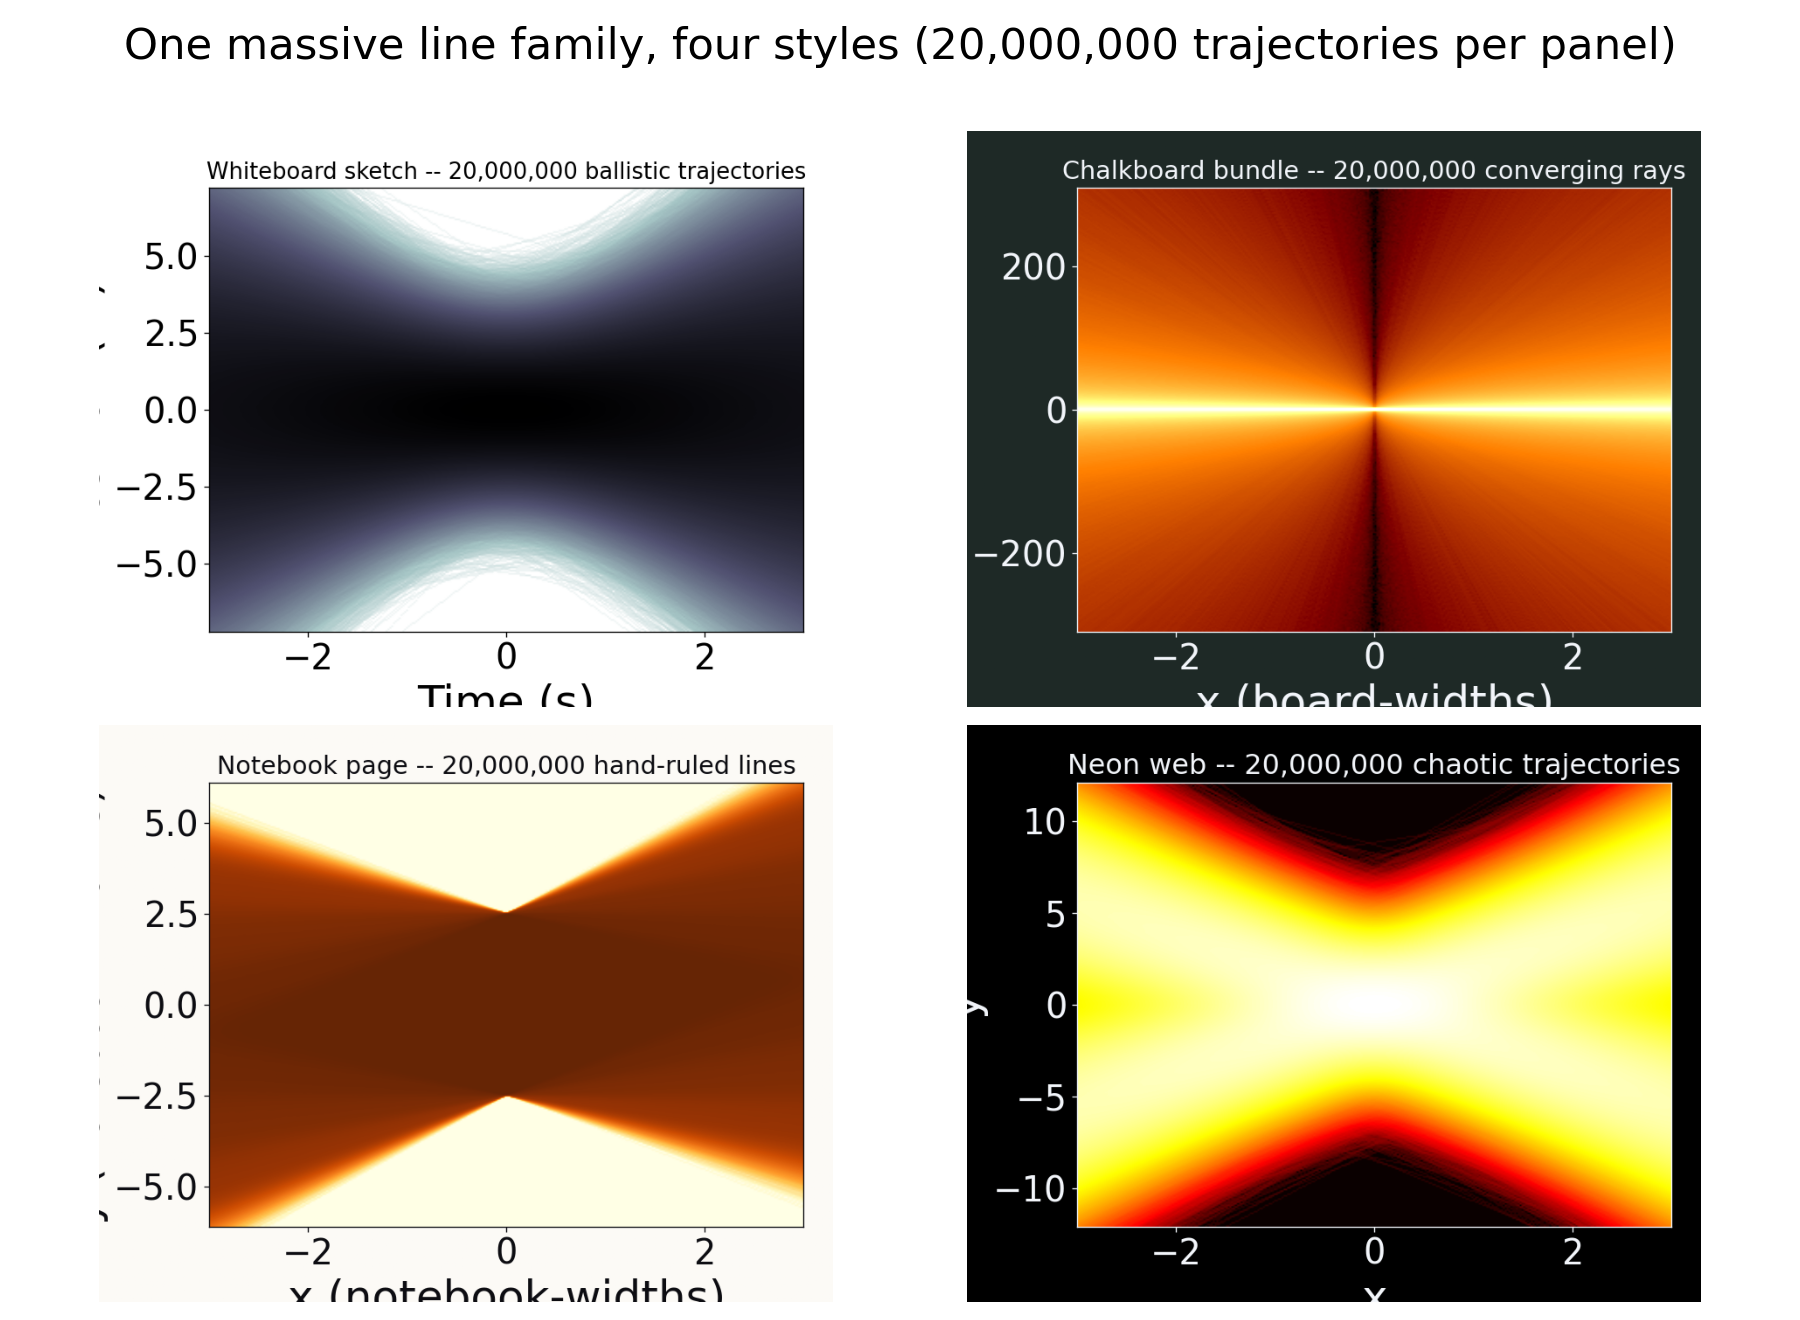
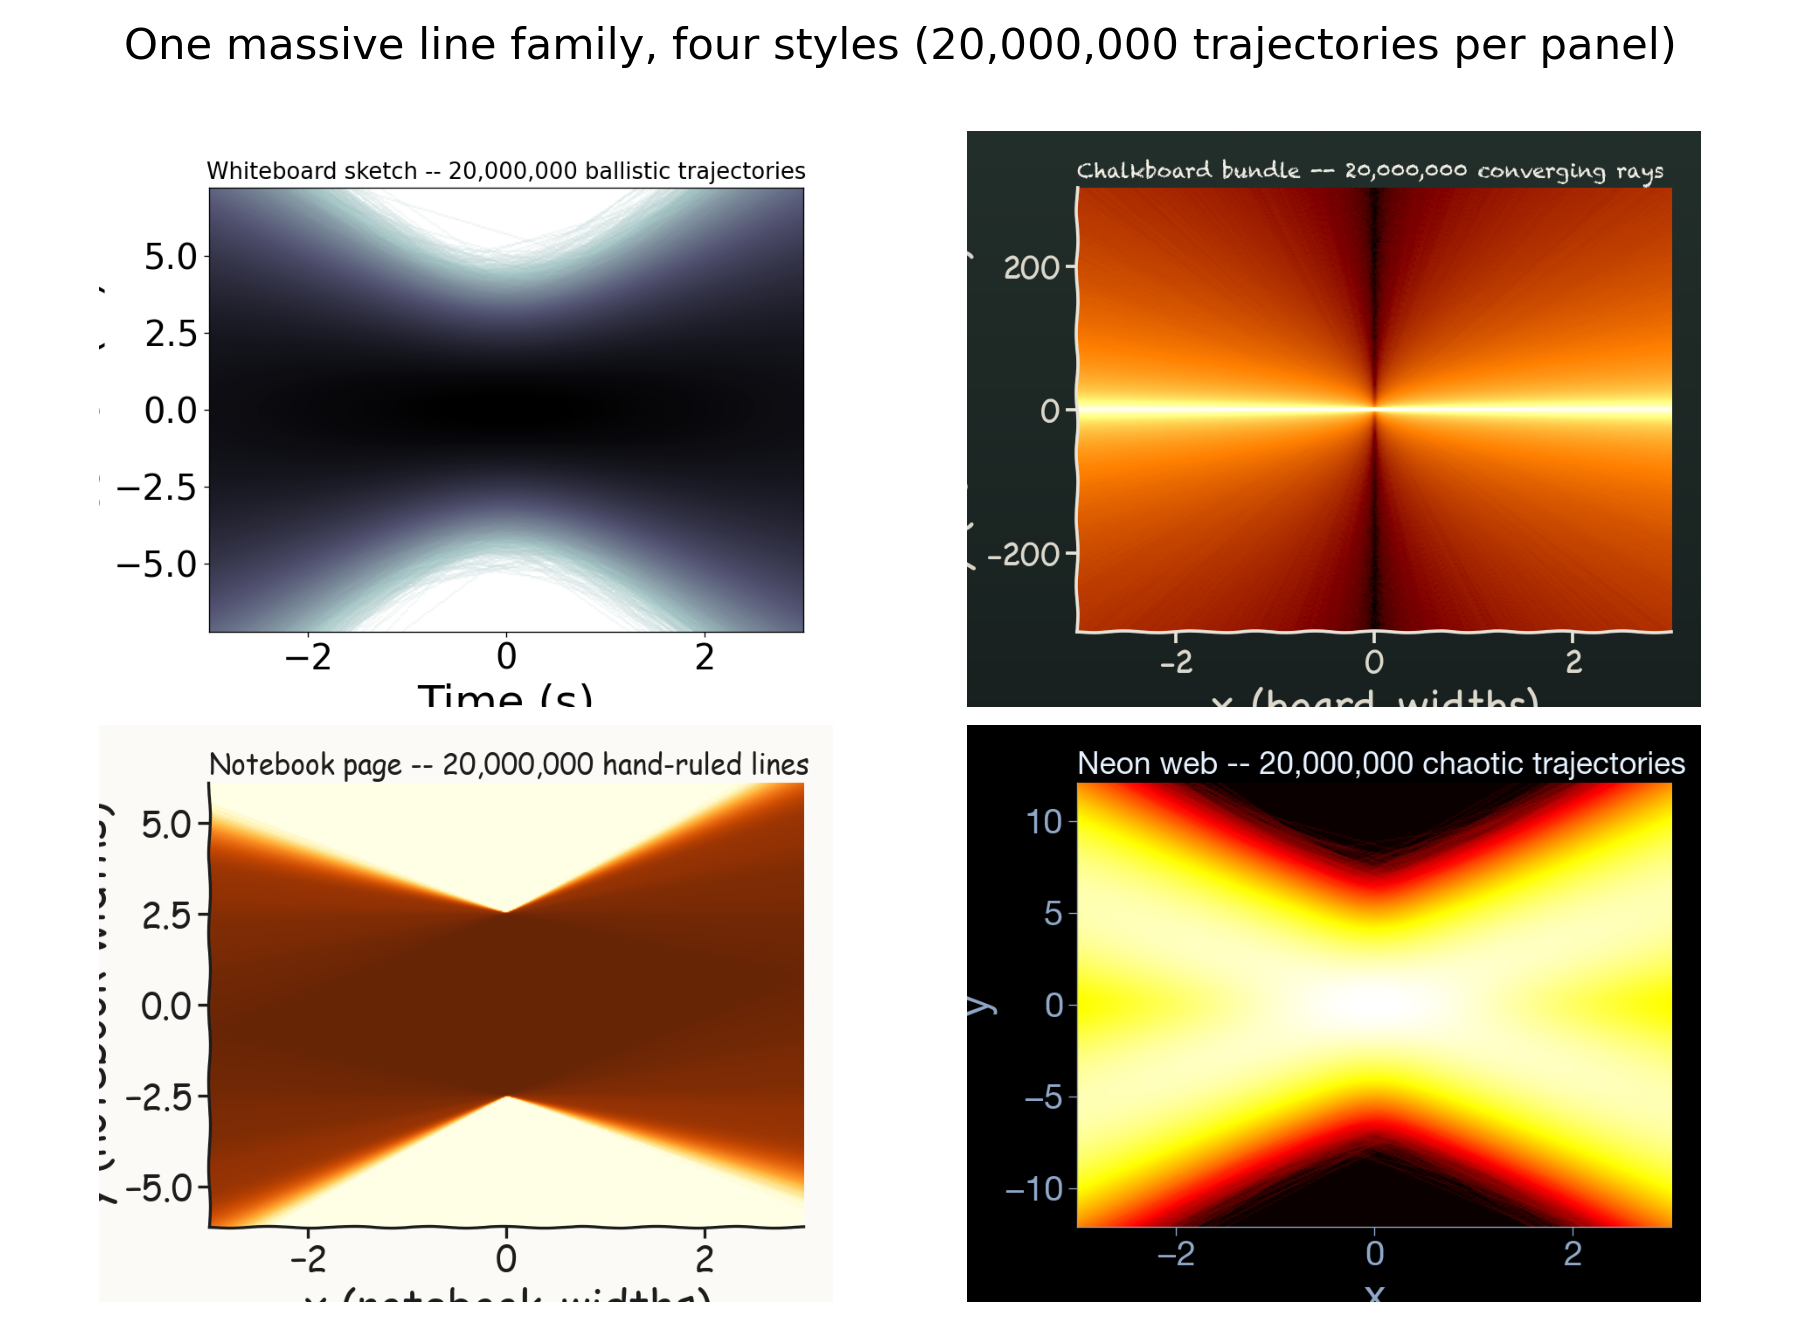
fix(export): tall titles make room, monospace looks fit small figures; describe_figure reports the style
A title in a face with tall ascenders lowers a lone axes' top edge (measured at the asked size,
so animations stay still) instead of poking out or shrinking; the editor, blueprint and terminal
looks use smaller numbers and axis titles. describe_figure says which look a figure wears.
Gallery 04 and 28 regenerated.

diff --git a/tests/test_style_looks.py b/tests/test_style_looks.py
@@ -662,3 +662,39 @@ class TestLogAxes:
         finally:
             logging.getLogger("matplotlib.mathtext").removeHandler(handler)
         assert not [r for r in records if "glyph" in r.getMessage()]
+
+
+def test_describe_figure_says_which_look_a_figure_wears():
+    from glplot.mcp.toolbox import Toolbox
+
+    box = Toolbox()
+    try:
+        styled = box.create_figure(style="Tokyo Night").data["figure_id"]
+        plain = box.create_figure().data["figure_id"]
+        data = box.describe_figure(styled).data
+        assert data["style"]["key"] == "tokyonight" and data["style"]["name"] == "Tokyo Night"
+        assert "title flush left" in data["style"]["export"]
+        assert "style" not in box.describe_figure(plain).data
+        listing = {f["figure_id"]: f for f in box.describe_figure().data["figures"]}
+        assert listing[styled]["style"] == "tokyonight" and "style" not in listing[plain]
+    finally:
+        box.close_all()
+
+
+def test_a_tall_title_makes_room_instead_of_poking_out():
+    plot = gplt.figure(figsize=(5, 3))
+    gplt.plot_style("chalk")
+    gplt.plot([0, 1], [0, 1])
+    gplt.title("Short")
+    seen = {}
+
+    def inspect(fig):
+        fig.canvas.draw()
+        renderer = fig.canvas.get_renderer()
+        seen["top"] = fig.axes[0].title.get_window_extent(renderer).y1
+        seen["height"] = fig.get_size_inches()[1] * fig.dpi
+        seen["size"] = fig.axes[0].title.get_fontsize()
+
+    render_preview_bytes(plot, 1.0, inspect=inspect)
+    assert seen["top"] <= seen["height"], "inside the figure"
+    assert seen["size"] == pytest.approx(40.0), "a title that fits across keeps its size"

diff --git a/glplot/utils/preview.py b/glplot/utils/preview.py
@@ -2057,6 +2057,18 @@ def _autosize_title(fig: object, ax: object, min_fontsize: float = TITLE_MIN_FON
     renderer = fig.canvas.get_renderer()
     fig_height_px = fig.get_size_inches()[1] * fig.dpi
     shrunk = False
+    # A title too tall for the room above the axes (a display face with tall ascenders, a big
+    # title on a small figure) lowers the axes' top edge rather than shrinking: measured at the
+    # size asked for, which is the same on every frame of an animation, so the box never moves.
+    # Only a lone axes -- a grid or a colorbar is laid out around the axes' current place.
+    top_room = fig_height_px - 0.5 * margin_px
+    overflow = title.get_window_extent(renderer=renderer).y1 - top_room
+    if overflow > 0 and len(fig.axes) == 1 and not hasattr(ax, "get_zlim"):
+        box = ax.get_position()
+        top = box.y1 - overflow / fig_height_px
+        if top - box.y0 > 0.6 * box.height:
+            ax.set_position([box.x0, box.y0, box.width, top - box.y0])
+            shrunk = True
     for _ in range(20):
         bbox = title.get_window_extent(renderer=renderer)
         # across, and off the top: a face with tall ascenders (a handwriting or display face

diff --git a/glplot/mcp/toolbox.py b/glplot/mcp/toolbox.py
@@ -787,6 +787,7 @@ class Toolbox:
                     "projection": f.projection,
                     "panels": f.panels,
                     "artists": len(f.artists),
+                    **({"style": f.plot._style_key} if getattr(f.plot, "_style_key", "") else {}),
                 }
                 for f in self._figures.values()
             ]
@@ -812,6 +813,15 @@ class Toolbox:
             "artists": artists,
             "panels": view,
         }
+        key = getattr(entry.plot, "_style_key", "") or ""
+        if key:
+            # the look it wears, and what that does to a saved image -- a model picking a figure
+            # back up should not restyle it by accident, or fight the style with color=
+            data["style"] = {
+                "key": key,
+                "name": styles.get_style(key).name,
+                "export": styles.export_summary(styles.get_style(key)) or "colours, page and lines",
+            }
         if entry.controls:
             data["controls"] = [c.describe() for c in entry.controls.values()]
         if entry.bindings:

diff --git a/glplot/gui/styles.py b/glplot/gui/styles.py
@@ -935,6 +935,10 @@ def _editor_look(muted: RGB, grid: RGB) -> ExportLook:
         grid_style=":",
         grid_width=1.2,
         tick_length=6.0,
+        # a monospace face is a fifth wider than DejaVu Sans: the export's 24/30 pt numbers
+        # and axis titles would run off a small figure
+        tick_label_size=20.0,
+        label_size=25.0,
         title_loc="left",
         title_weight="bold",
         title_size=34.0,
@@ -1320,6 +1324,8 @@ STYLES: Tuple[PlotStyle, ...] = (
             label_color=_rgb("#CFE3F7"),
             tick_length=6.0,
             tick_direction="in",
+            tick_label_size=20.0,
+            label_size=25.0,
             title_loc="left",
             legend_frame=False,
         ),
@@ -2436,6 +2442,8 @@ STYLES: Tuple[PlotStyle, ...] = (
             grid_width=1.0,
             ytick_side="right",
             tick_length=5.0,
+            tick_label_size=20.0,
+            label_size=25.0,
             label_color=_rgb("#FFA028"),
             title_loc="left",
             title_weight="bold",

diff --git a/CHANGELOG.md b/CHANGELOG.md
@@ -155,7 +155,8 @@ for public releases.
 - MCP prompt `restyle_like` ("make this figure look like The Economist"); `publication_figure` now picks
   the look by venue (paper, talk, article, dashboard, video) and the server's instructions tell a model
   that a look is one argument and to leave `color=` to the style. The review flags a series, bar or
-  text drawn in a colour the page swallows (`invisible_on_page`), with the fix.
+  text drawn in a colour the page swallows (`invisible_on_page`), with the fix. `describe_figure` says
+  which look a figure wears and what it does to a saved image.
 
 ### Changed
 
@@ -198,7 +199,9 @@ for public releases.
   box: white ink on a light-yellow note was invisible (gallery 21).
 - A face without a Unicode minus (Chalkboard, Marker Felt, Computer Modern) drew a box for every
   negative tick label and log/logit exponent; the sign is now taken from the maths fonts. A title in a
-  face with tall ascenders no longer pokes out of the top of the figure.
+  face with tall ascenders no longer pokes out of the top of the figure: a lone axes makes room by
+  lowering its top edge (measured at the size asked for, so an animation's box never moves). The
+  monospace looks use smaller numbers and axis titles, which ran off small figures.
 - Exporting a figure with a long title redrew the whole figure up to 20 times while the title was
   shrunk to fit (every frame of an animation too); the title is now re-measured without redrawing.
   Gallery example 01 (10,072 lines) saves in 42 s instead of 64 s. The hand-drawn stroke of the
